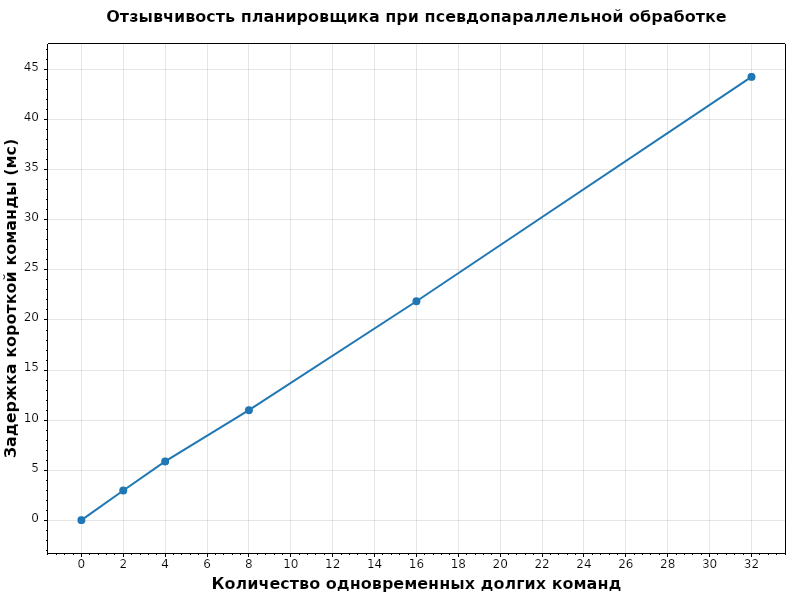
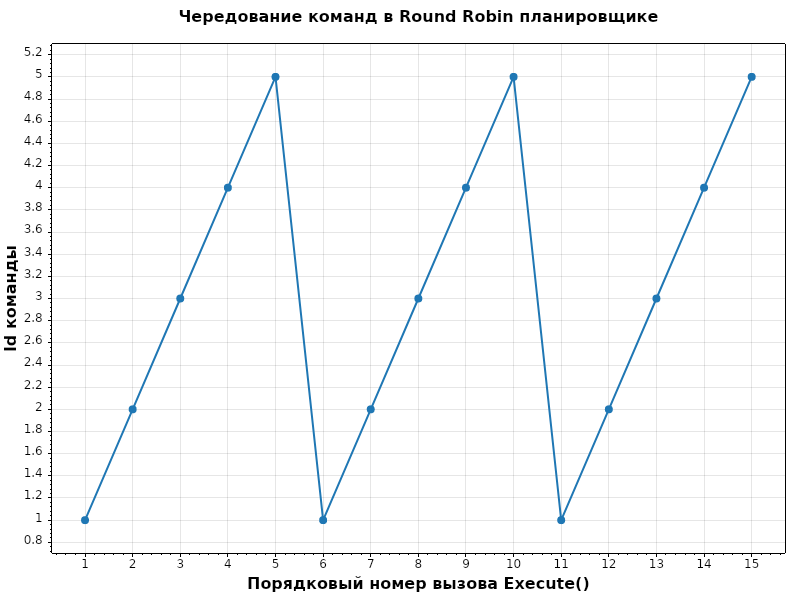
feat: task19

diff --git a/task17/TestCommand.cs b/task17/TestCommand.cs
@@ -1,0 +1,27 @@
+namespace task17
+{
+    public class TestCommand : ICommand, ILongRunningCommand
+    {
+        private readonly int _id;
+        private readonly int _maxCalls;
+        private readonly CountdownEvent _completionSignal;
+        private int _counter = 0;
+
+        public TestCommand(int id, int maxCalls = 3, CountdownEvent completionSignal = null)
+        {
+            _id = id;
+            _maxCalls = maxCalls;
+            _completionSignal = completionSignal;
+        }
+
+        public bool IsCompleted => _counter >= _maxCalls;
+
+        public void Execute()
+        {
+            Console.WriteLine($"Поток {_id} вызов {++_counter}");
+
+            if (IsCompleted)
+                _completionSignal?.Signal();
+        }
+    }
+}
